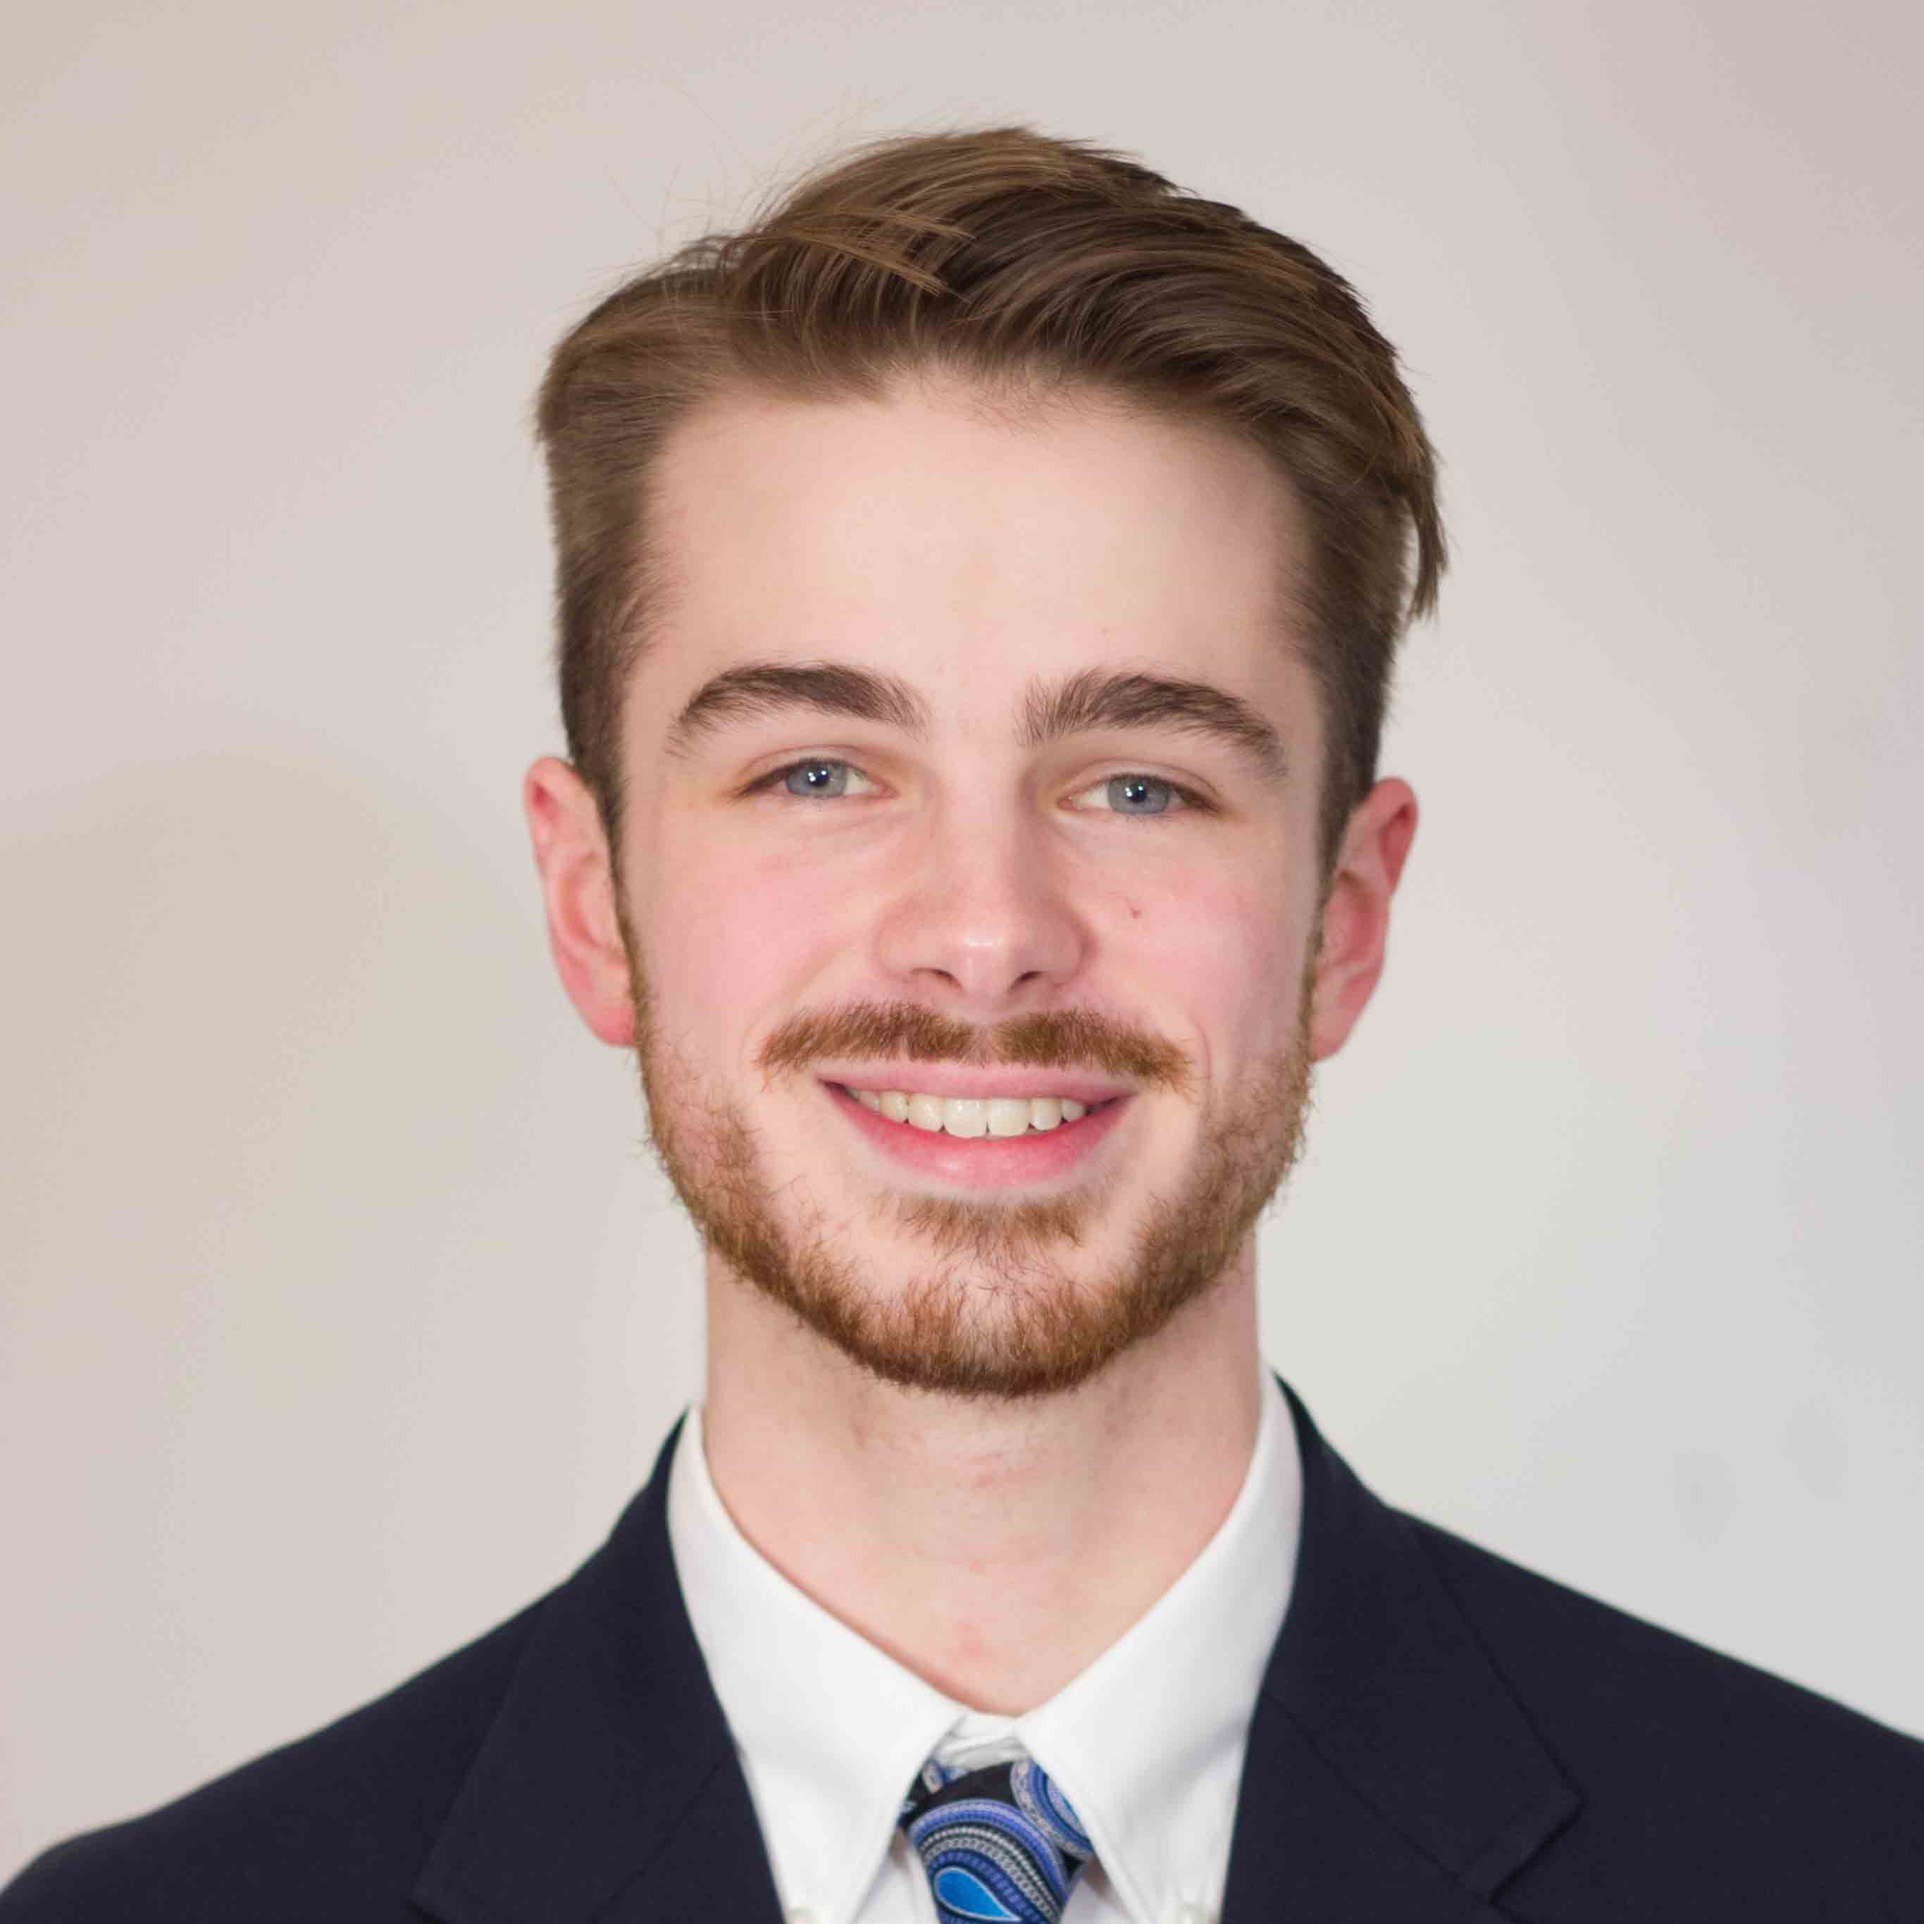
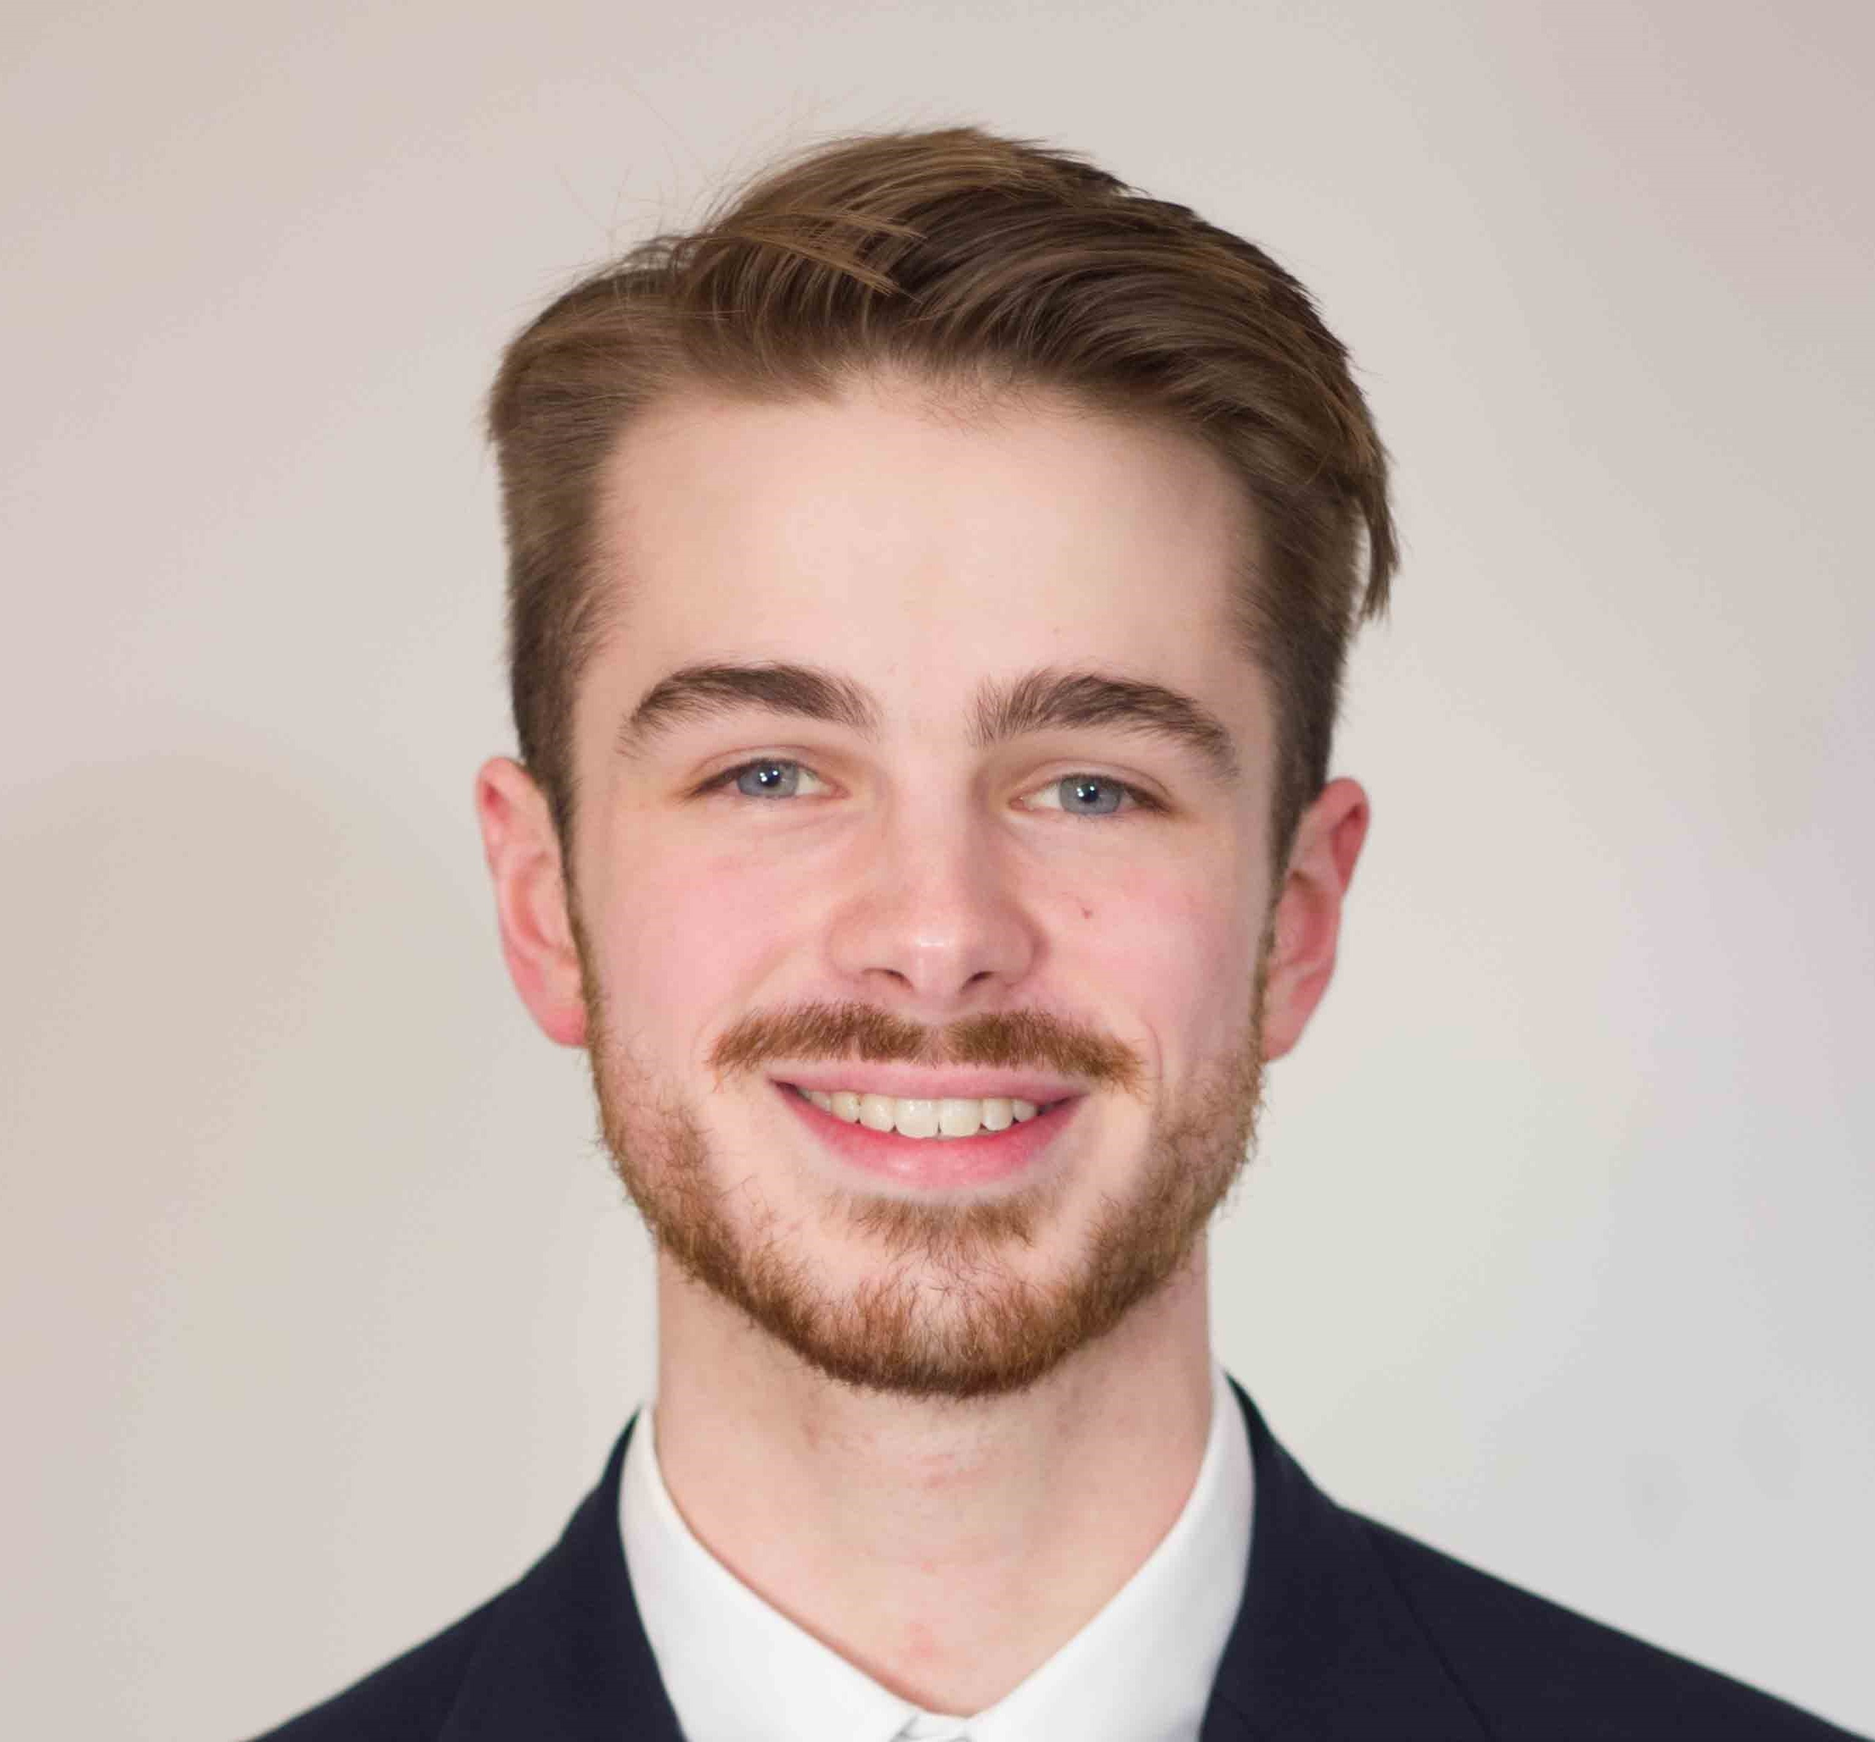
Add Sugar and Iqra to exec board page, crop some photos to fit better

Changed region(s): [[0.0, 0.0623, 1.0, 1.0]]

diff --git a/src/views/Exec.js b/src/views/Exec.js
@@ -6,6 +6,8 @@ import paulina from '../img/Paulina.jpg'
 import jonathan from '../img/Jonathan.jpg'
 import linette from '../img/Linette.jpg'
 import makenna from '../img/Makenna.jpg'
+import sugar from '../img/sugar.jpg'
+import iqra from '../img/iqra.jpg'
 
 export default class Exec extends React.Component {
     render() {
@@ -13,7 +15,7 @@ export default class Exec extends React.Component {
             <div id='exec-div'>
                 <h1 id='exec-title'>EXECUTIVE BOARD</h1>
                 <Responsive as={Grid} minWidth={992} id='exec-grid'>
-                    <Grid.Row className='grid-row' columns={3}>
+                    <Grid.Row className='grid-row' columns={4}>
                         <Grid.Column className='board-member'>
                             <Card className='member-card'>
                                 <Image className='headshot' src={martin} />
@@ -40,14 +42,29 @@ export default class Exec extends React.Component {
                                 </Card.Content>
                             </Card>
                         </Grid.Column>
+                        <Grid.Column className='board-member'>
+                            <Card className='member-card'>
+                                <Image className='headshot' src={sugar} />
+                                <Card.Content className='member-card'>
+                                    <Card.Header className='member-name'>Sugar Dashdavaa</Card.Header>
+                                </Card.Content>
+                            </Card>
+                        </Grid.Column>
                     </Grid.Row>
-                    <Grid.Row className='grid-row' columns={2}>
+                    <Grid.Row className='grid-row' columns={3}>
+                        <Grid.Column className='board-member'>
+                            <Card className='member-card'>
+                                <Image className='headshot' src={iqra} />
+                                <Card.Content className='member-card'>
+                                    <Card.Header className='member-name'>Iqra Rehman</Card.Header>
+                                </Card.Content>
+                            </Card>
+                        </Grid.Column>
                         <Grid.Column className='board-member'>
                             <Card className='member-card'>
                                 <Image className='headshot' src={jonathan} />
                                 <Card.Content className='member-card'>
                                     <Card.Header className='member-name'>Jonathan Warkentin</Card.Header>
-
                                 </Card.Content>
                             </Card>
                         </Grid.Column>
@@ -56,7 +73,6 @@ export default class Exec extends React.Component {
                                 <Image className='headshot' src={paulina} />
                                 <Card.Content className='member-card'>
                                     <Card.Header className='member-name'>Paulina Adamski</Card.Header>
-
                                 </Card.Content>
                             </Card>
                         </Grid.Column>
@@ -87,6 +103,24 @@ export default class Exec extends React.Component {
                             <Image className='headshot' src={makenna} />
                             <Card.Content className='member-card'>
                                 <Card.Header className='member-name'>Makenna Walsh</Card.Header>
+                            </Card.Content>
+                        </Card>
+                    </div>
+                    <br />
+                    <div className='grid-row'>
+                        <Card className='member-card'>
+                            <Image className='headshot' src={sugar} />
+                            <Card.Content className='member-card'>
+                                <Card.Header className='member-name'>Sugar Dashdavaa</Card.Header>
+                            </Card.Content>
+                        </Card>
+                    </div>
+                    <br />
+                    <div className='grid-row'>
+                        <Card className='member-card'>
+                            <Image className='headshot' src={iqra} />
+                            <Card.Content className='member-card'>
+                                <Card.Header className='member-name'>Iqra Rehman</Card.Header>
                             </Card.Content>
                         </Card>
                     </div>

diff --git a/src/views/Exec.css b/src/views/Exec.css
@@ -17,13 +17,13 @@
 }
 
 .headshot {
-    width: 14vw;
-    height: 25vh;
+    width: 15.5vw;
+    height: 23.5vh;
     object-fit: cover;
 }
 
 .member-card {
-    max-width: 14vw !important;
+    max-width: 15.5vw !important;
 }
 
 .member-name {
